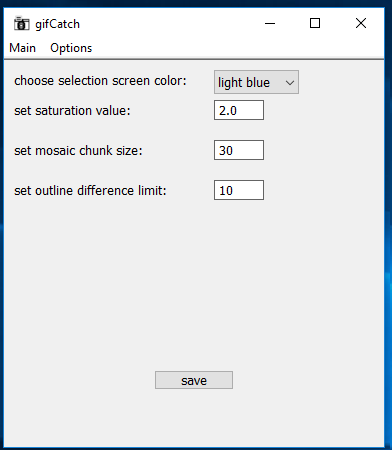
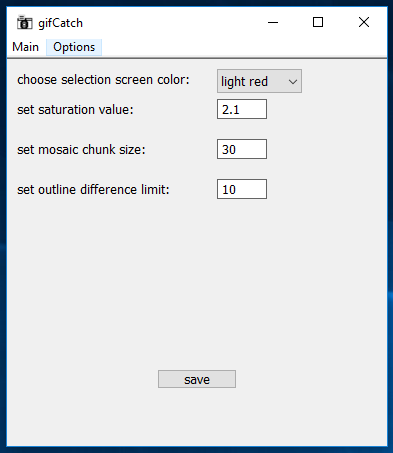
forgot to mention something:

diff --git a/readme.md b/readme.md
@@ -10,7 +10,7 @@ I use MinGW-64 gcc(8.1.0) to make/compile this project. Currently a work-in-prog
 There are adjustable settings, such as the <b>number of frames</b>, the <b>time delay between frames</b>, and some <b>color filter choices</b>.  You can also choose between red (![#FF828C](https://placehold.it/15/FF828C/000000?text=+)), blue (![#8CB4FF](https://placehold.it/15/8CB4FF/000000?text=+)), or green (![#8CFFB4](https://placehold.it/15/8CFFB4/000000?text=+)) for the selection area screen when choosing a place on the screen to capture.
 The screenshots below show an earlier version that only had dark red as an option.    
     
-For the filters, you can currently adjust the amount of saturation with a float value and change the mosaic filter chunk size with an int value. I have not yet implemented any input validation for these parameters.    
+For the filters, you can currently adjust the amount of saturation with a float value, change the mosaic filter chunk size with an int value, and change the outline filter's allowable limit for the difference between 2 pixels' color. I have not yet implemented any input validation for these parameters.    
     
 Additionally, you can create a gif from a folder of .bmp images (24-bit and 32-bit!) by specifying the full path to a directory. This feature is particularly useful if you have some bmp images that you have edited and want to put them together in a gif.
 If recreating a gif from pre-collected bmps, you also have the option of adding a caption! (but currently only Impact font is used, with size 32, and placement is near the bottom of the gif, centered)    
